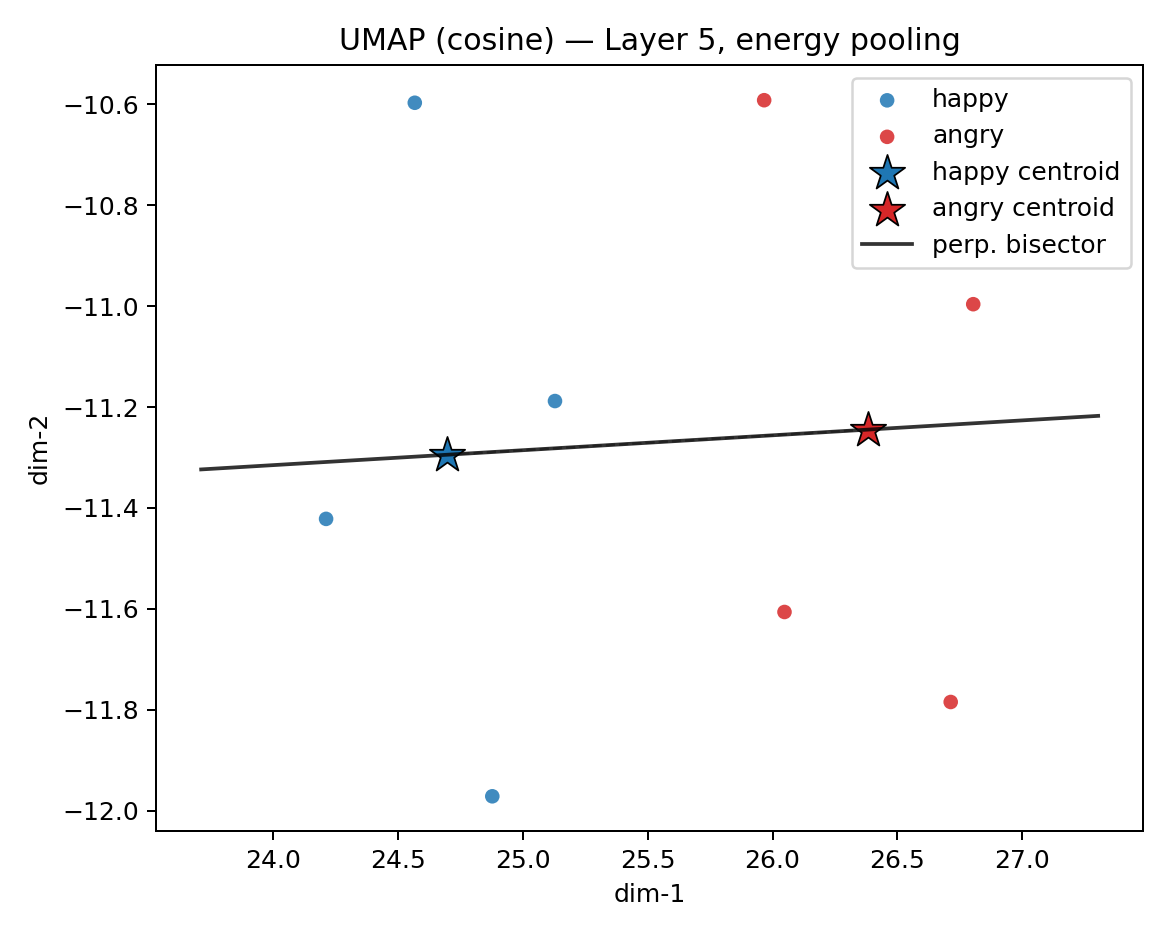
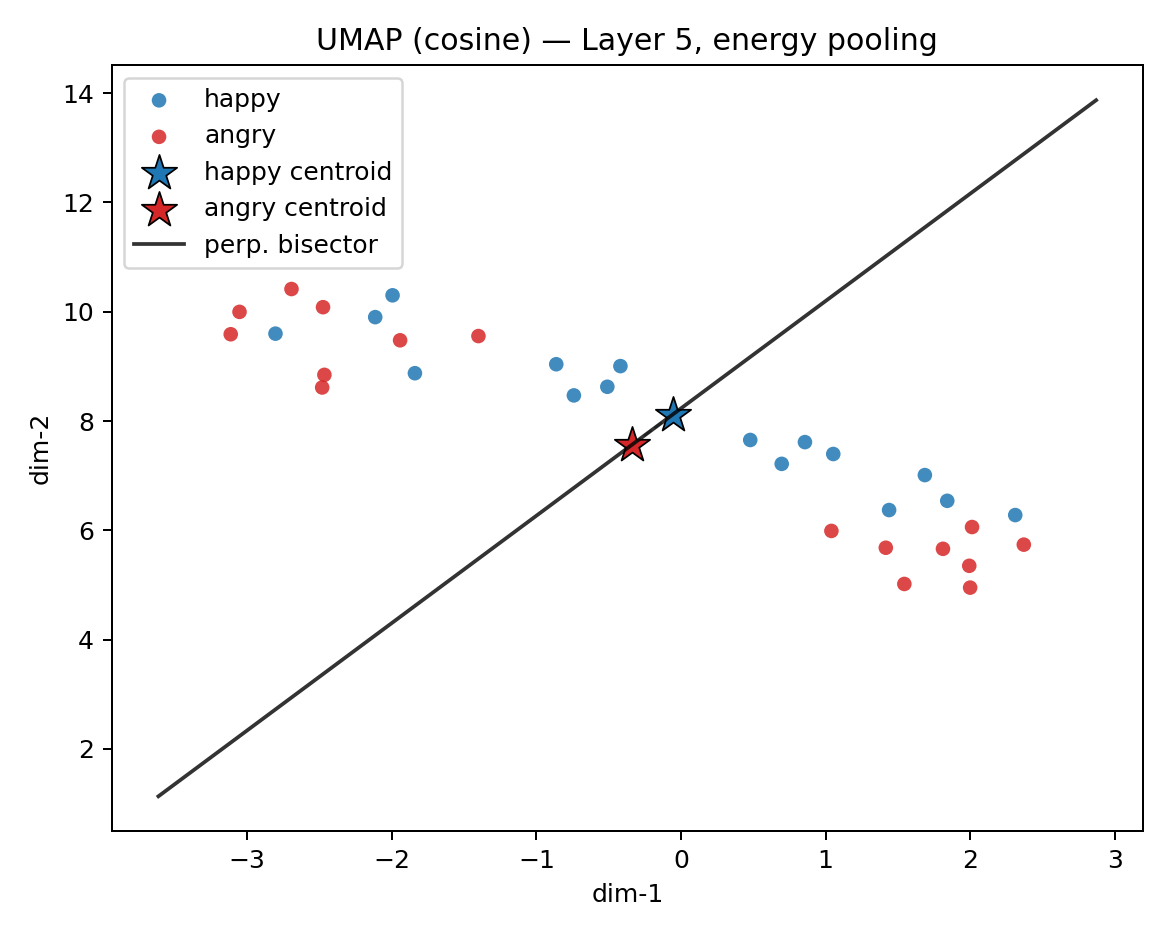
prosody

diff --git a/scripts/extract_prosody.py b/scripts/extract_prosody.py
@@ -1,0 +1,81 @@
+# scripts/extract_prosody.py
+
+import argparse
+import numpy as np
+import librosa
+
+# ---- helper: safe stats (ignores NaNs) ----
+def smean(x): return float(np.nanmean(x)) if np.size(x) else 0.0
+def sstd(x):  return float(np.nanstd(x))  if np.size(x) else 0.0
+def srange(x):
+    if np.size(x) == 0: return 0.0
+    return float(np.nanmax(x) - np.nanmin(x))
+
+def main():
+    parser = argparse.ArgumentParser(description="Extract simple prosody features from a WAV.")
+    parser.add_argument("--wav", required=True, help="Path to .wav file")
+    parser.add_argument("--sr", type=int, default=16000, help="Target sample rate (we resample)")
+    parser.add_argument("--out", required=True, help="Where to save .npy prosody vector")
+    args = parser.parse_args()
+
+    # 1) load audio, resample to args.sr (16 kHz default)
+    #    y = mono float32 waveform; sr = actual sample rate returned
+    y, sr = librosa.load(args.wav, sr=args.sr)
+    # optional: trim leading/trailing silence (keeps content, removes empty tails)
+    y, _ = librosa.effects.trim(y, top_db=20)
+
+    # guard for tiny or empty audio
+    if len(y) < sr * 0.2:
+        raise ValueError("Audio too short after trimming (< 0.2 s)")
+
+    # we’ll fill this dict with features, then pack to a vector
+    feats = {}
+    # 2) frame-wise features use a hop (default ~512 samples) → per-frame arrays
+    # RMS = loudness per frame; we take std so we capture "how spiky" not absolute loudness
+    rms = librosa.feature.rms(y=y)[0]  # shape 1d
+    feats["rms_std"] = sstd(rms)
+
+    # Spectral centroid ≈ brightness center of mass; we take mean and std
+    sc = librosa.feature.spectral_centroid(y=y, sr=sr)[0]  # [T]
+    feats["centroid_mean"] = smean(sc)
+    feats["centroid_std"]  = sstd(sc)
+
+    # 3) F0 with probabilistic YIN. Returns Hz + voiced/unvoiced as NaNs
+    # choose a broad range so both male/female are covered
+    f0, voiced_flag, _ = librosa.pyin(
+        y, fmin=librosa.note_to_hz("C2"), fmax=librosa.note_to_hz("C7"), sr=sr
+    )
+    # f0 is shape [T] with NaN where unvoiced
+    voiced_mask = ~np.isnan(f0)
+    voiced_f0 = f0[voiced_mask]
+
+    feats["f0_mean"]  = smean(voiced_f0)
+    feats["f0_std"]   = sstd(voiced_f0)
+    feats["f0_range"] = srange(voiced_f0)
+
+    # dynamics: average absolute step change between consecutive voiced frames
+    if voiced_f0.size > 1:
+        delta = np.abs(np.diff(voiced_f0))
+        feats["f0_delta_mean"] = smean(delta)
+    else:
+        feats["f0_delta_mean"] = 0.0
+
+    # voiced fraction: percentage of frames where pitch is defined
+    feats["voiced_fraction"] = float(np.mean(voiced_mask))
+    # 4) pack in a fixed order → small vector (~8 dims)
+    order = [
+        "f0_mean", "f0_std", "f0_range", "f0_delta_mean",
+        "voiced_fraction", "rms_std",
+        "centroid_mean", "centroid_std",
+    ]
+    vec = np.array([feats[k] for k in order], dtype=np.float32)
+    np.save(args.out, vec)
+
+    # tiny print so you can see values
+    print("Prosody vector ({} dims):".format(len(order)))
+    for k in order:
+        print(f"  {k:16s} {feats[k]:.4f}")
+    print(f"[save] wrote {args.out}")
+
+if __name__ == "__main__":
+    main()

diff --git a/scripts/plot_umap.py b/scripts/plot_umap.py
@@ -4,16 +4,17 @@ from transformers import Wav2Vec2FeatureExtractor, Wav2Vec2Model
 
 # === Config you can change ===================================================
 SR = 16000  # sample rate expected by wav2vec2
-# Folder with your WAVs (Actor_01 only for now):
-ROOT = "/Users/selvi.arora/Desktop/Audio_Speech_Actors_01-24 2/Actor_01"
+# Folder with your WAVs:
+ROOT = "/Users/selvi.arora/Desktop/Audio_Speech_Actors_01-24 2"
+ACTORS = ["Actor_01", "Actor_02", "Actor_03", "Actor_04"]  # which actors to include
 
-# We’ll visualize two emotions: happy(03) and angry(05) in STRONG intensity (..-02-..)
+# We'll visualize two emotions: happy(03) and angry(05) in STRONG intensity (..-02-..)
 EMOTIONS = {"03": "happy", "05": "angry"}
 
 LAYER_IDX = 5     # <- we found Layer 5 gives best emotion separation
 TRIM = True       # remove leading/trailing silence to focus on speech
 POOL = "energy"   # "mean" or "energy" — energy emphasizes emotional frames
-MAX_PER_CLASS = 20  # up to N files per class to keep the plot readable
+MAX_PER_CLASS = 80  # up to N files per class (4 actors × ~20 files each)
 
 # === Pick a reducer: try UMAP, else fallback to t-SNE ========================
 reducer_name = None
@@ -91,14 +92,19 @@ def embed_file(path):
     return emb.cpu().numpy()
 
 # === Collect a small, balanced set of files per class ========================
-files = sorted(glob.glob(os.path.join(ROOT, "*.wav")))
 by_class = {"happy": [], "angry": []}
-for f in files:
-    cls = is_strong_emotion(f, wanted_codes=set(EMOTIONS.keys()))
-    if cls is None:
+for actor in ACTORS:
+    actor_dir = os.path.join(ROOT, actor)
+    if not os.path.exists(actor_dir):
+        print(f"[warn] {actor_dir} not found, skipping")
         continue
-    if len(by_class[cls]) < MAX_PER_CLASS:     # cap to keep plot neat
-        by_class[cls].append(f)
+    files = sorted(glob.glob(os.path.join(actor_dir, "*.wav")))
+    for f in files:
+        cls = is_strong_emotion(f, wanted_codes=set(EMOTIONS.keys()))
+        if cls is None:
+            continue
+        if len(by_class[cls]) < MAX_PER_CLASS:     # cap to keep plot neat
+            by_class[cls].append(f)
 
 print("[info] collected:", {k: len(v) for k, v in by_class.items()})
 assert sum(len(v) for v in by_class.values()) > 1, "Not enough files found."
@@ -181,5 +187,5 @@ plt.title(title)
 plt.xlabel("dim-1"); plt.ylabel("dim-2")
 plt.legend(loc="best", frameon=True)
 plt.tight_layout()
-plt.savefig("../outputs/l5_emotion_umap_centroids.png", dpi=180)
-print("[save] wrote ../outputs/l5_emotion_umap_centroids.png")
+plt.savefig("outputs/l5_emotion_umap_centroids.png", dpi=180)
+print("[save] wrote outputs/l5_emotion_umap_centroids.png")
